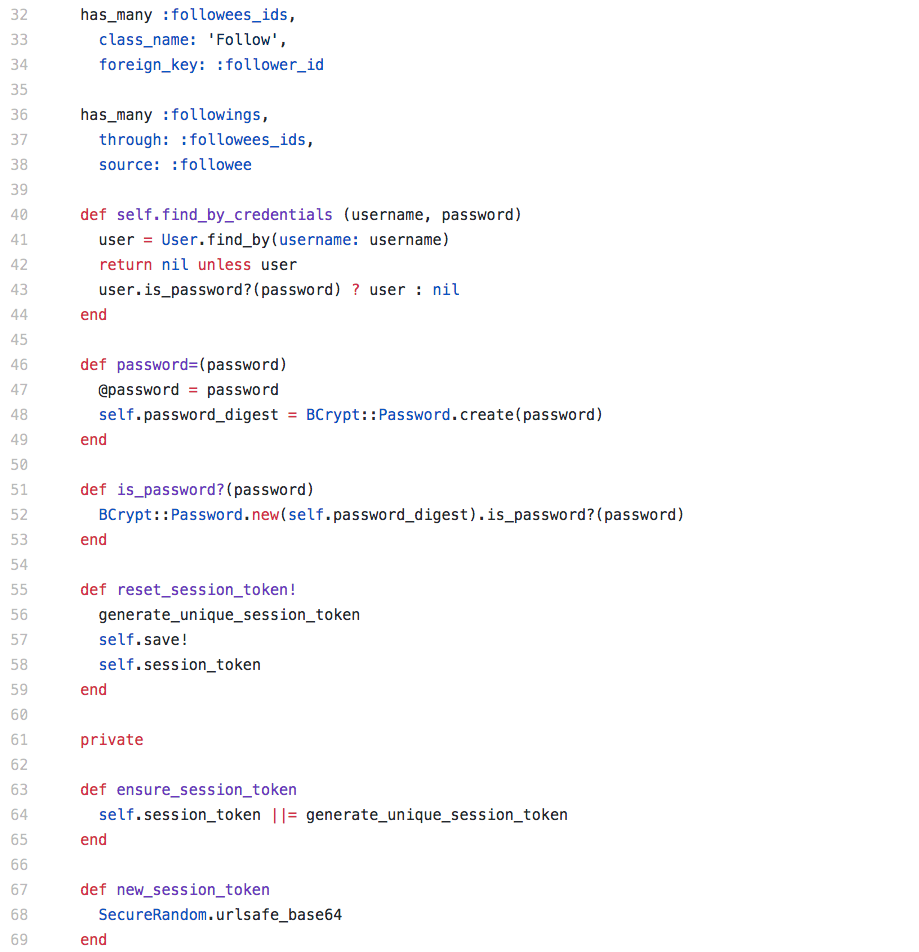
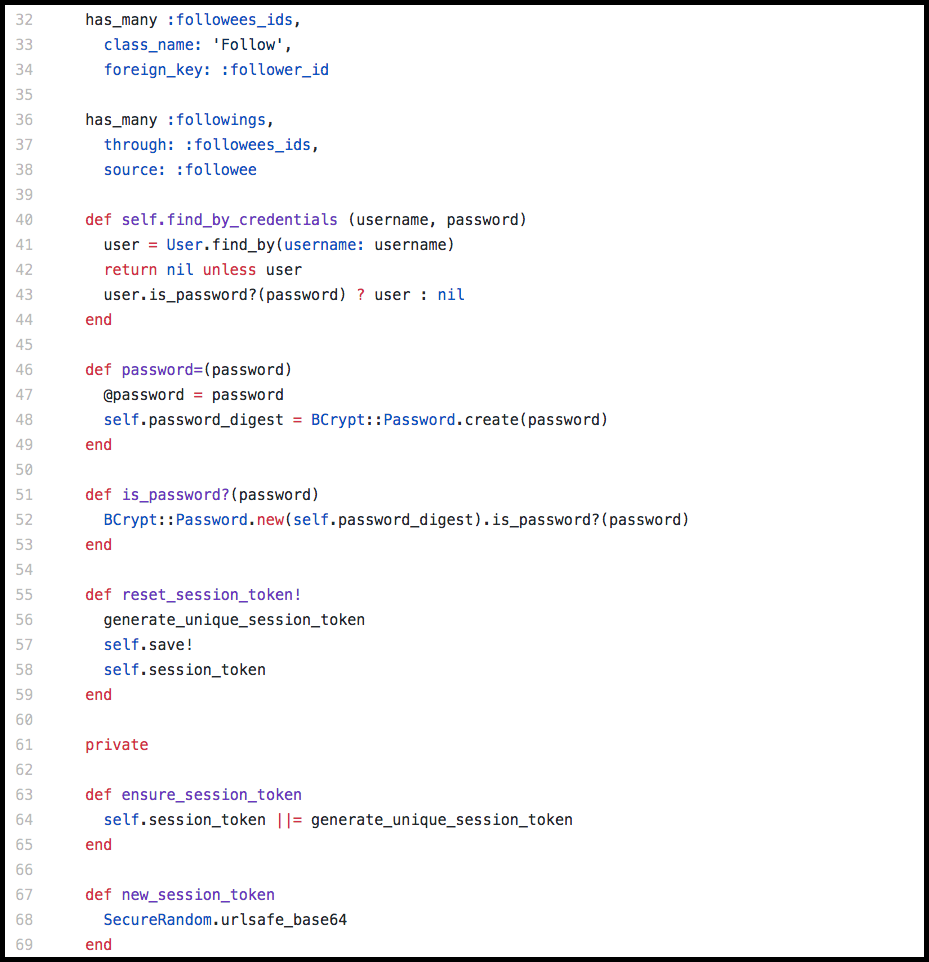
added borders to gifs and code snippets

diff --git a/README.md b/README.md
@@ -32,6 +32,7 @@ Note - The application is hosted in Heroku which puts the application in sleep i
   * Email is not in a valid email format.
 
 [[/app/assets/gifs/authentication.gif|Authentication]]
+<img src=“app/assets/gifs/authentication.gif” width=“180" height=“210” />
 
 #### Home
 * Scroll through, in reverse-chronological order/ newest first, a list of user's own posts and their following users' posts with their respective information.
